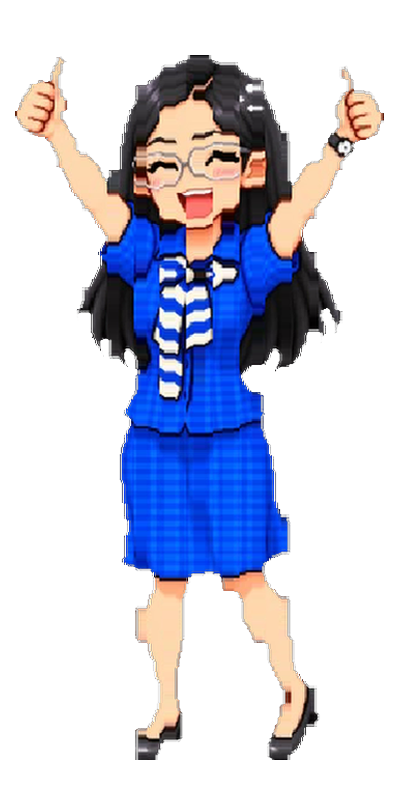
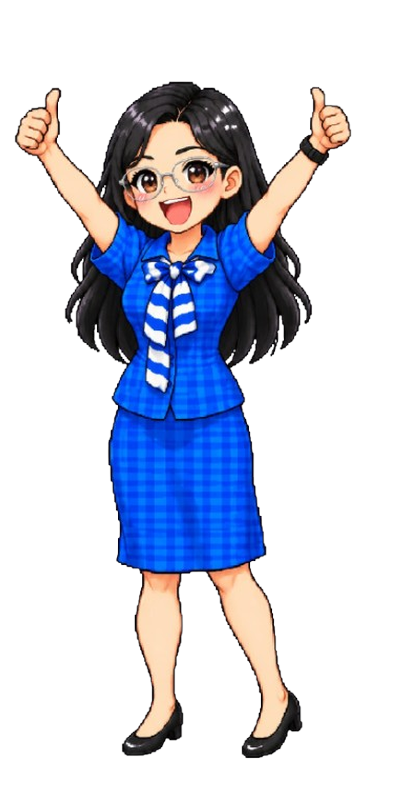
fix(sprites): re-align teacher_blue_correct_1 sprite and streamline normalizer script

Changed region(s): [[0.03, 0.0625, 0.96, 0.9688]]

diff --git a/align_teacher_sprites.py b/align_teacher_sprites.py
@@ -91,21 +91,6 @@ def normalize_all_sprites():
         canvas.save(p, "PNG")
         print(f"Normalized {f} -> bbox {canvas.getbbox()}, paste_x={paste_x}")
 
-    # Normalize correct 1 (clapping celebration) to match head/body height
-    correct1_path = os.path.join(guide_dir, "teacher_blue_correct_1.png")
-    if os.path.exists(correct1_path):
-        img = Image.open(correct1_path).convert("RGBA")
-        crop = img.crop(img.getbbox())
-        w, h = crop.size
-        new_h = 705
-        new_w = int(w * (new_h / h))
-        resized = crop.resize((new_w, new_h), Image.Resampling.LANCZOS)
-        canvas = Image.new("RGBA", (TARGET_WIDTH, TARGET_HEIGHT), (0, 0, 0, 0))
-        paste_x = (TARGET_WIDTH - new_w) // 2
-        paste_y = FEET_BASELINE_Y - new_h
-        canvas.paste(resized, (paste_x, paste_y), resized)
-        canvas.save(correct1_path, "PNG")
-        print(f"Normalized teacher_blue_correct_1.png -> bbox {canvas.getbbox()}")
 
 if __name__ == '__main__':
     normalize_all_sprites()
